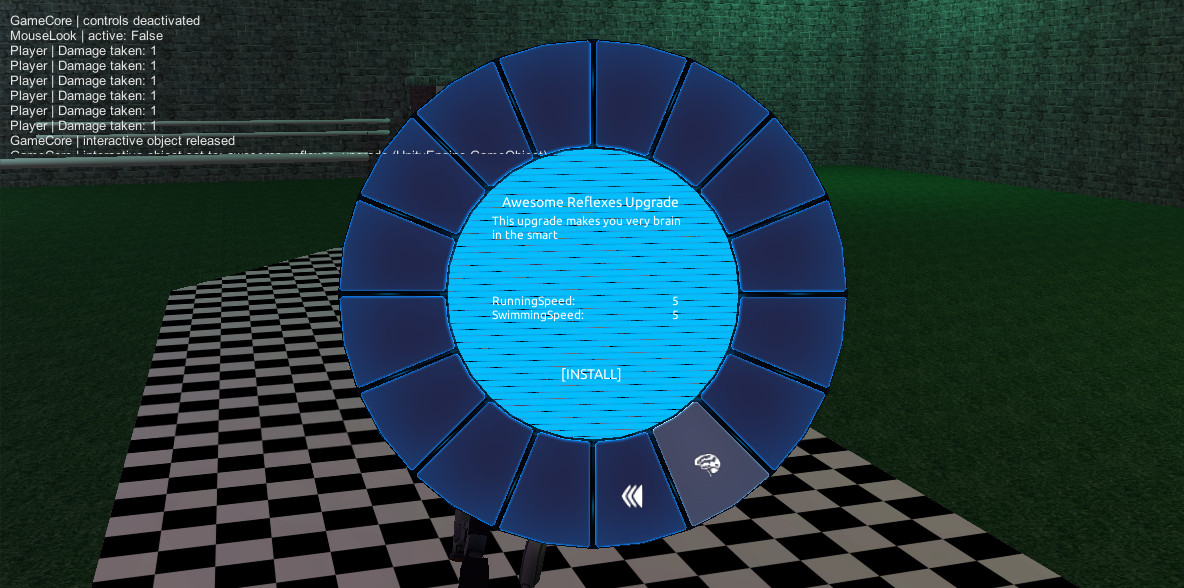
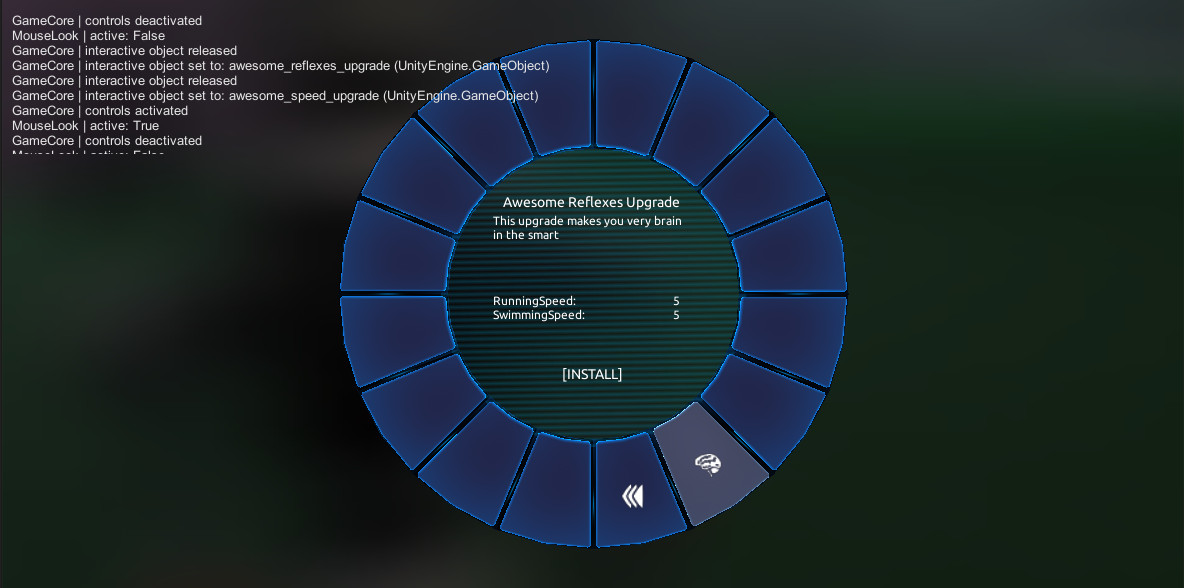
Updated screenshots

diff --git a/_posts/2013-08-19-ui-paradigm-and-upgrades.md b/_posts/2013-08-19-ui-paradigm-and-upgrades.md
@@ -15,7 +15,7 @@ Updates from the second development phase.
 
 ### UI
 I've decided on a circular UI, as that has always been something I'd like to do. Some of you might think "Oh no, make it stop!", but to that I say "poppycock!". It can work. Seriously. Come on, seriously.
-I am essentially aiming to accomplish what they failed to do in DX:IW. These are rough prototypes, and there are some drawing issues courtesy of the latest Unity update, but it gets the idea across.
+I am essentially aiming to accomplish what they failed to do in DX:IW. These are rough prototypes, but they get the point across.
 
 <a href="{{ img_path }}main.jpg"><img src="{{ img_path }}main.jpg" /></a>
   
